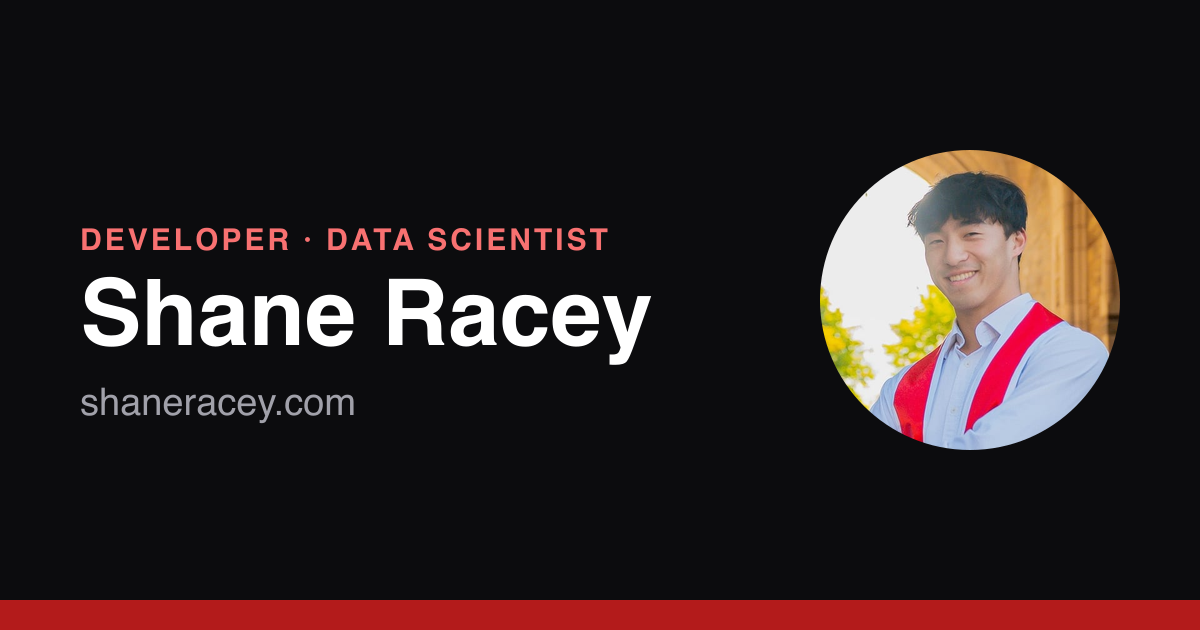
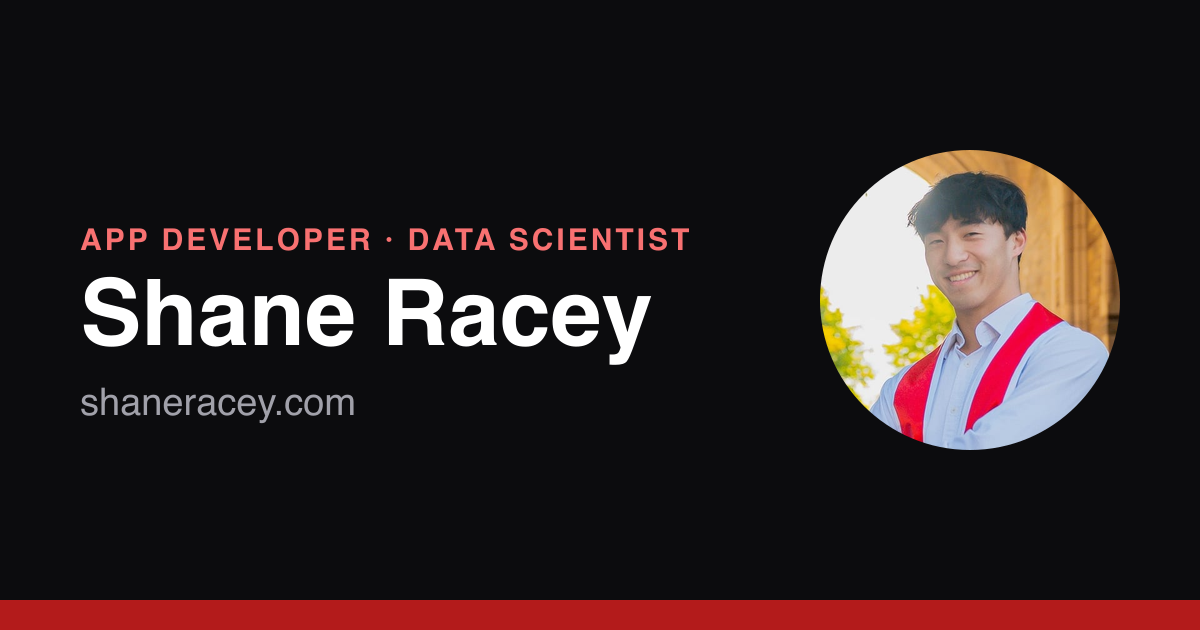
Add Photo Painter card and rewrite the intro
Photo Painter returns as a non-clickable card. The hero now reads
"Hi, I'm Shane" with a new role line and bio; og.png regenerated.

Changed region(s): [[0.0617, 0.3619, 0.5858, 0.4222]]

diff --git a/src/data/site.ts b/src/data/site.ts
@@ -3,8 +3,9 @@
 export const site = {
   name: 'Shane Racey',
   url: 'https://shaneracey.com',
-  role: 'Developer · Data Scientist',
-  bio: 'I build small, focused apps. By day I work in data science; before that I studied operations research at Cornell and pole vaulted for Cornell and Kentucky.',
+  role: 'App Developer · Data Scientist',
+  heading: "Hi, I'm Shane",
+  bio: "I did my undergrad at Cornell and my Master's at Kentucky. I was a pole vaulter at both schools competing on their track and field teams. Now, I work as a data scientist in insurance while indie building small apps on the side. Check out my work below.",
   description: 'Apps and projects by Shane Racey, a developer and data scientist.',
   email: '', // TODO: e.g. hello@shaneracey.com
   socials: [
